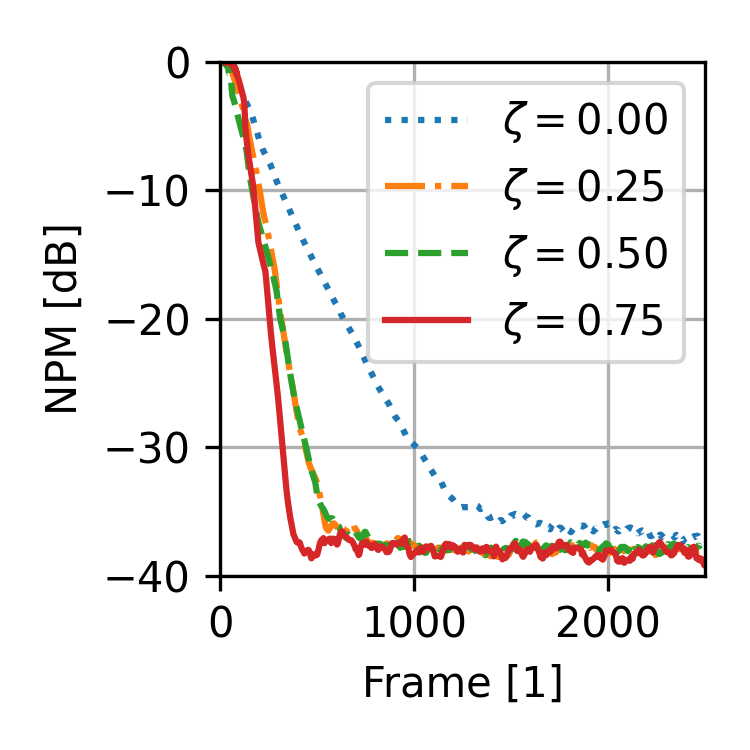
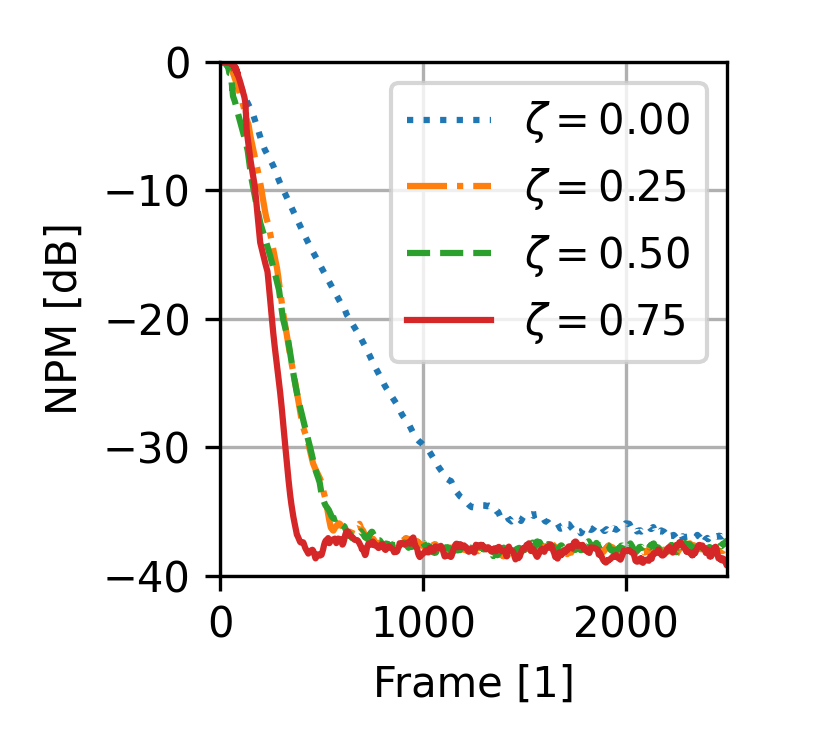
new plots for simulation 2

diff --git a/python/simulation_2/plot.py b/python/simulation_2/plot.py
@@ -108,7 +108,7 @@ plt.show()
 lim = 2500
 for N_sens in [4, 8]:
     lines = ["-", "--", "-.", ":"]
-    fig = plt.figure(figsize=(3, 2.5))
+    fig = plt.figure(figsize=(2.75, 2.5))
     for i in range(len(densities)):
         if err_ADMM_newton_fq_diag_[i][N_sens] is not None:
             plt.plot(
